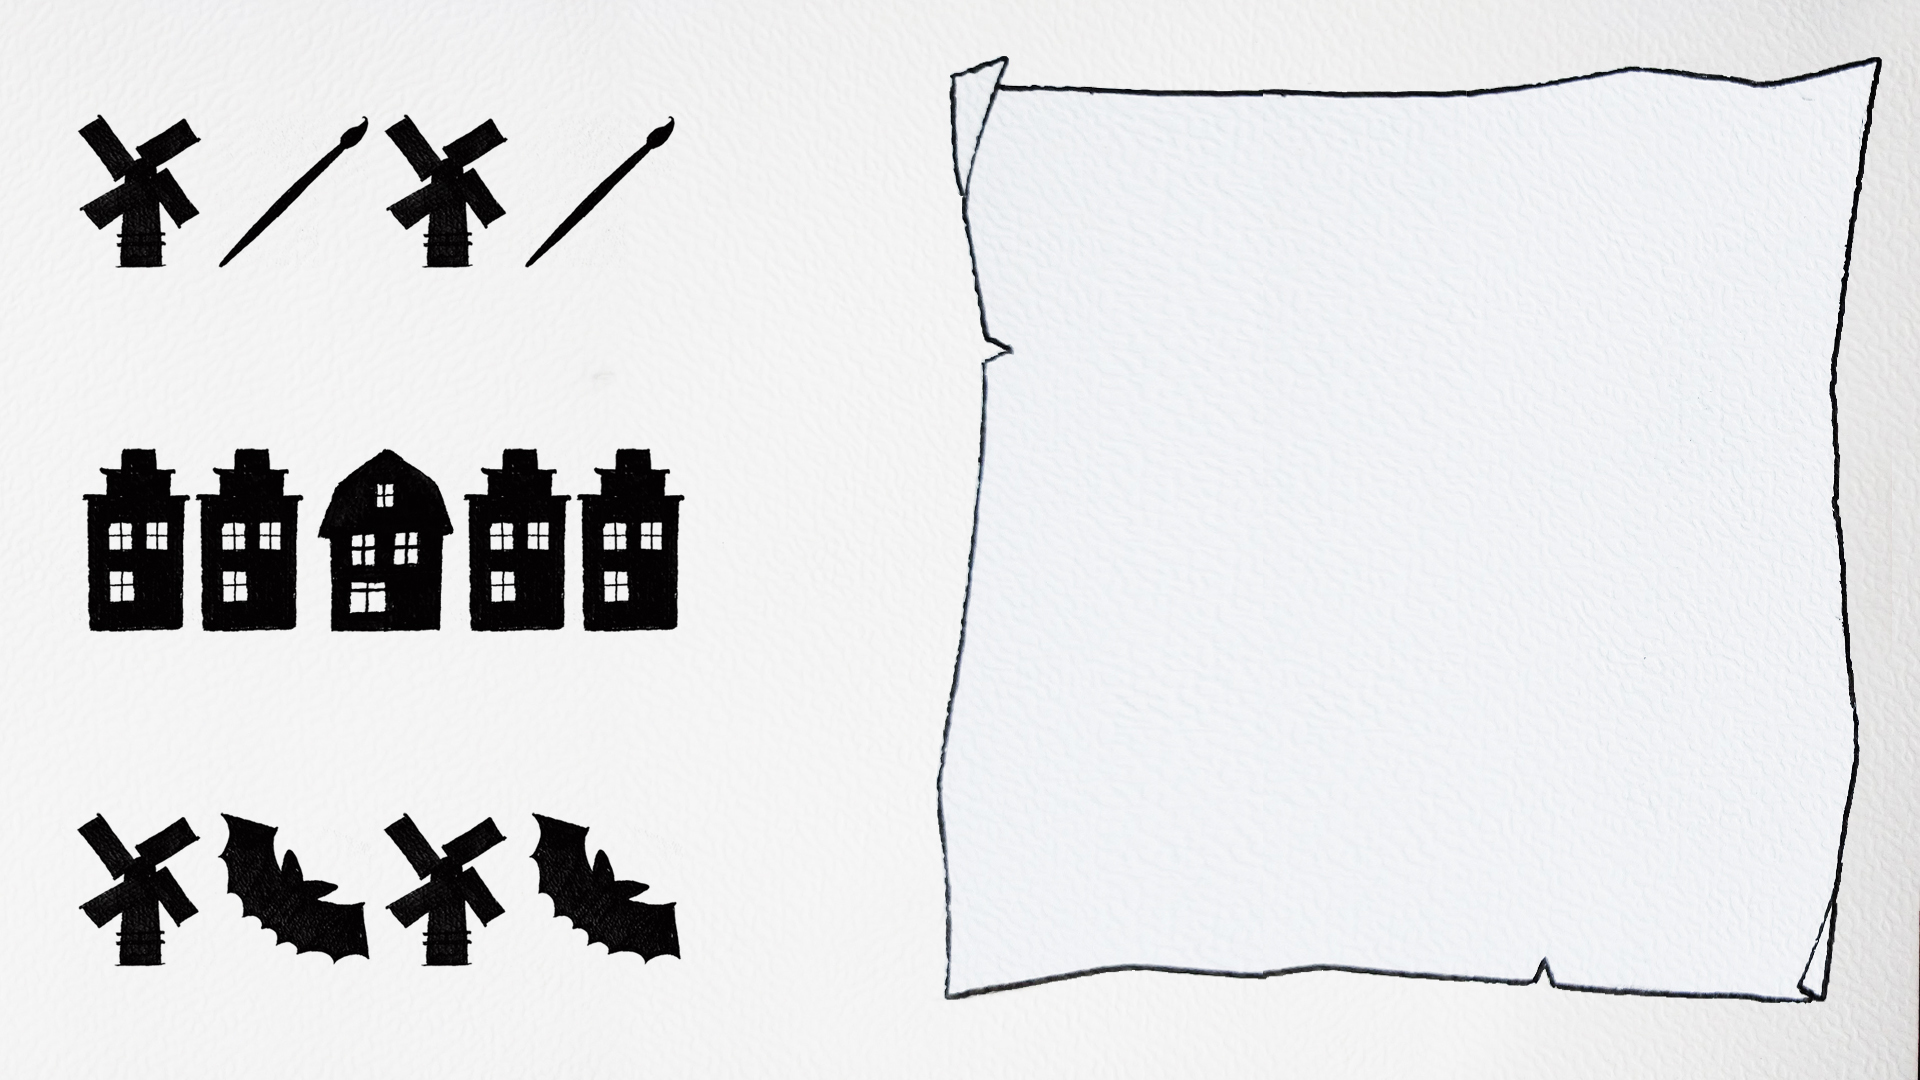
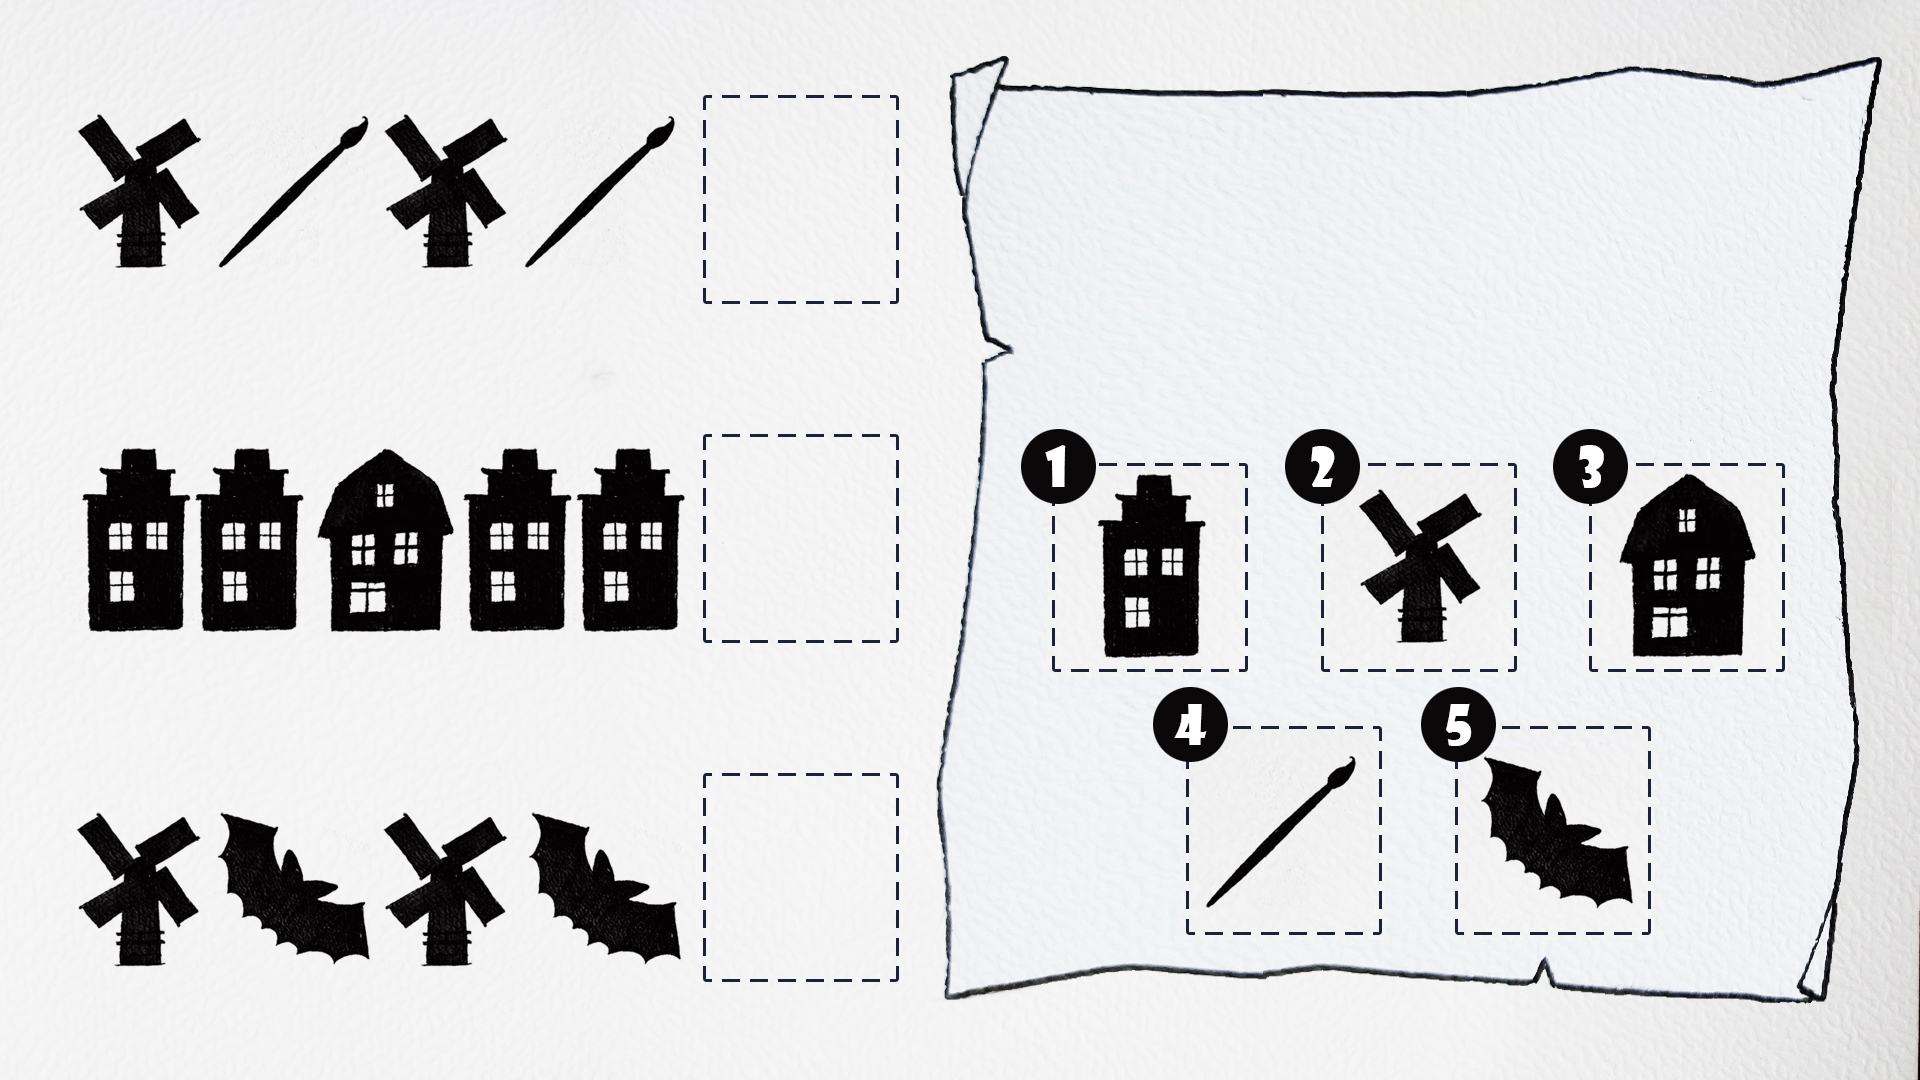
working puzzles

diff --git a/src/components/InputArray.jsx b/src/components/InputArray.jsx
@@ -1,0 +1,76 @@
+import React, { useState } from 'react';
+
+const InputArray = ({ correctAnswer1, correctAnswer2, correctAnswer3, nextPage }) => {
+
+  const [userAnswer1, setUserAnswer1] = useState("");
+  const [userAnswer2, setUserAnswer2] = useState("");
+  const [userAnswer3, setUserAnswer3] = useState("");
+
+  const checkAnswer = () => {
+    if (
+        correctAnswer1 === userAnswer1 &&
+        correctAnswer2 === userAnswer2 &&
+        correctAnswer3 === userAnswer3)
+    {
+      return true;
+    } else {
+      return false;
+    };
+  }
+
+  const input1Handler = (event) => {
+    setUserAnswer1(event.target.value);
+  }
+
+  const input2Handler = (event) => {
+    setUserAnswer2(event.target.value);
+  }
+
+  const input3Handler = (event) => {
+    setUserAnswer3(event.target.value);
+  }
+
+  const formSubmitHandler = (e) => {
+    e.preventDefault();
+
+    if (checkAnswer()) {
+      return nextPage();
+    } else {
+      document.getElementById("inputNumb1").value = "";
+      document.getElementById("inputNumb2").value = "";
+      document.getElementById("inputNumb3").value = "";
+      return;
+    }
+  }
+  
+  return (
+    <>
+      <form onSubmit={formSubmitHandler}>
+        <input 
+          className="input-number" 
+          type="text" id="inputNumb1" 
+          placeholder="0"
+          onChange={input1Handler}
+        />
+
+        <input 
+          className="input-number" 
+          type="text" id="inputNumb2" 
+          placeholder="0"
+          onChange={input2Handler}
+        />
+
+        <input 
+          className="input-number" 
+          type="text" id="inputNumb3" 
+          placeholder="0"
+          onChange={input3Handler}
+        />
+
+        <button className="btn btn--ok" type="submit">OK</button>
+      </form>
+    </>
+  )
+}
+
+export default InputArray;

diff --git a/src/booksDB.js b/src/booksDB.js
@@ -77,16 +77,17 @@ export const booksDB = [
           "Now I want to see if you can complete these three sequences!"
         ],
         textRight: "--right",
+        answer: ["2", "3", "2"]
       },{
         pageNumber: 10,
-        pageBg: "./images/bg-volendorpje_scene_09.jpg",
+        pageBg: "./images/bg-volendorpje_scene_09b.jpg",
         pageText: [
-          "Well done!",
-          "Well, just one more question.",
+          "Good job!",
+          "Well, just one more question then.",
           "Which picture do you see the most?"
         ],
         textRight: "--right",
-        answer: "windmill"
+        answer: "2"
       },{
         pageNumber: 11,
         pageBg: "./images/bg-volendorpje_scene_06.jpg",

diff --git a/src/components/ParagraphList.jsx b/src/components/ParagraphList.jsx
@@ -2,6 +2,7 @@ import React from 'react';
 import PuzzleOne from './PuzzleOne';
 import PuzzleTwo from './PuzzleTwo';
 import PuzzleThree from './PuzzleThree';
+import PuzzleTwoA from './PuzzleTwoA';
 
 const ParagraphList = ({ paragraphs, onTheRight, pageNumber, answer, nextPage }) => {
   return (
@@ -16,7 +17,12 @@ const ParagraphList = ({ paragraphs, onTheRight, pageNumber, answer, nextPage })
         answer={answer}
         pageNumber={pageNumber}
         nextPage={nextPage} 
-      />      
+      />
+      <PuzzleTwoA
+        answerArr={answer}
+        pageNumber={pageNumber}
+        nextPage={nextPage}
+      />
       <PuzzleTwo 
         answer={answer}
         pageNumber={pageNumber}

diff --git a/src/components/PuzzleTwoA.jsx b/src/components/PuzzleTwoA.jsx
@@ -1,0 +1,21 @@
+import React from 'react';
+import InputArray from './InputArray'
+
+const PuzzleTwoA = ({ pageNumber, answerArr, nextPage }) => {
+  return (
+    <div className="puzzle-container">
+      {
+        pageNumber === 9 && (
+          <InputArray 
+            correctAnswer1={answerArr[0]}
+            correctAnswer2={answerArr[1]}
+            correctAnswer3={answerArr[2]}
+            nextPage={nextPage}
+          />
+        )
+      }
+    </div>
+  )
+}
+
+export default PuzzleTwoA;

diff --git a/src/components/Navigation.jsx b/src/components/Navigation.jsx
@@ -16,8 +16,10 @@ const Navigation = ({ nextPage, backPage, pageNumber, totalPages, answer }) => {
       
 
       {
-        (pageNumber < totalPages && !answer) && (
+        (pageNumber < totalPages && !answer) ? (
           <span className="btn btn--next-page" onClick={nextPage}>NEXT</span>
+        ) : (
+          <span className="btn btn--next-page"> ? </span>
         )
       } 
 
